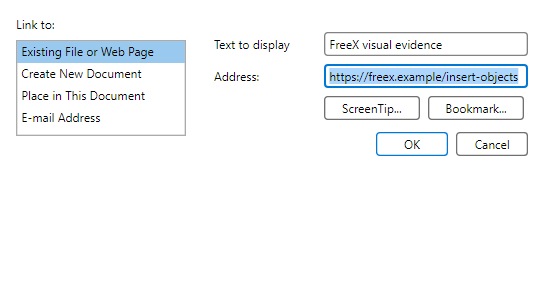
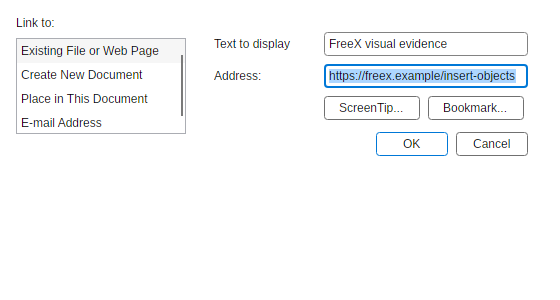
FreeX: refresh InsertHyperlink parity evidence

diff --git a/src/FreeX.App.Avalonia/MainWindow.cs b/src/FreeX.App.Avalonia/MainWindow.cs
@@ -16220,29 +16220,29 @@ public sealed partial class MainWindow : Window, IFormulaPointModeWorkbookWindow
             Width = HyperlinkDialogPlanner.LinkTypeColumnWidth,
             Height = HyperlinkDialogPlanner.LinkTypeListHeight,
         };
+        AvaloniaCompactDialogChrome.ApplyListBox(
+            linkTypeBox,
+            AvaloniaCompactDialogChrome.WindowsStyle with
+            {
+                ListBoxItemPadding = new Thickness(4, 0),
+            });
         // WPF keeps the selected link type in its inactive selection state because the
-        // address editor receives initial focus.  Avalonia Fluent otherwise paints the
-        // selected row with the active blue accent, so keep this host-template correction
-        // local to the hyperlink dialog instead of changing list selection globally.
+        // address editor receives initial focus.  Keep this correction local to the
+        // hyperlink dialog while covering the template's focused and hover states.
         var inactiveLinkTypeSelection = Brush(246, 246, 246);
-        var linkTypeSelectionStyle = new Style(x => x.OfType<ListBoxItem>().Class(":selected"))
+        foreach (var selector in new[] { ":selected", ":selected:focus", ":selected:pointerover", ":selected:focus:pointerover" })
         {
-            Setters =
+            linkTypeBox.Styles.Add(new Style(x => x.OfType<ListBoxItem>().Class(selector))
             {
-                new Setter(TemplatedControl.BackgroundProperty, inactiveLinkTypeSelection),
-                new Setter(TemplatedControl.ForegroundProperty, HeaderForeground),
-            },
-        };
-        var linkTypePointerSelectionStyle = new Style(x => x.OfType<ListBoxItem>().Class(":selected").Class(":pointerover"))
-        {
-            Setters =
-            {
-                new Setter(TemplatedControl.BackgroundProperty, inactiveLinkTypeSelection),
-                new Setter(TemplatedControl.ForegroundProperty, HeaderForeground),
-            },
-        };
-        linkTypeBox.Styles.Add(linkTypeSelectionStyle);
-        linkTypeBox.Styles.Add(linkTypePointerSelectionStyle);
+                Setters =
+                {
+                    new Setter(TemplatedControl.BackgroundProperty, inactiveLinkTypeSelection),
+                    new Setter(TemplatedControl.ForegroundProperty, HeaderForeground),
+                    new Setter(TemplatedControl.BorderBrushProperty, Brushes.Transparent),
+                    new Setter(TemplatedControl.BorderThicknessProperty, new Thickness(0)),
+                },
+            });
+        }
         AutomationProperties.SetName(linkTypeBox, UiText.Get("Hyperlink_LinkTo2"));
         AutomationProperties.SetAutomationId(linkTypeBox, "HyperlinkLinkTypeBox");
 

diff --git a/tests/FreeX.App.Avalonia.Tests/DialogVisualParitySourceTests.cs b/tests/FreeX.App.Avalonia.Tests/DialogVisualParitySourceTests.cs
@@ -157,13 +157,24 @@ public sealed class DialogVisualParitySourceTests
     {
         var source = File.ReadAllText(RepoFile("src", "FreeX.App.Avalonia", "MainWindow.cs"));
 
+        source.Should().Contain("AvaloniaCompactDialogChrome.ApplyListBox(");
+        source.Should().Contain("ListBoxItemPadding = new Thickness(4, 0)");
         source.Should().Contain("var inactiveLinkTypeSelection = Brush(246, 246, 246);");
-        source.Should().Contain("new Style(x => x.OfType<ListBoxItem>().Class(\":selected\"))");
-        source.Should().Contain("new Style(x => x.OfType<ListBoxItem>().Class(\":selected\").Class(\":pointerover\"))");
-        source.Should().Contain("linkTypeBox.Styles.Add(linkTypeSelectionStyle);");
-        source.Should().Contain("linkTypeBox.Styles.Add(linkTypePointerSelectionStyle);");
+        source.Should().Contain("new[] { \":selected\", \":selected:focus\", \":selected:pointerover\", \":selected:focus:pointerover\" }");
+        source.Should().Contain("new Setter(TemplatedControl.BorderBrushProperty, Brushes.Transparent)");
         source.Should().Contain("targetBox.Focus();");
         source.Should().Contain("targetBox.SelectAll();");
+    }
+
+    [Fact]
+    public void InsertHyperlinkParityCapture_UsesFixtureWithoutChangingProductionPrefill()
+    {
+        var source = File.ReadAllText(RepoFile("src", "FreeX.App.Avalonia", "MainWindow.cs"));
+        var captureSource = File.ReadAllText(RepoFile("src", "FreeX.App.Avalonia", "MainWindow.ParityCapture.cs"));
+
+        source.Should().Contain("var prefill = _session.GetSelectedRangeHyperlinkDialogPrefill();");
+        captureSource.Should().Contain("HyperlinkDialogParityFixture.Seed(_session.ActiveSheet, address);");
+        captureSource.Should().Contain("await ShowInsertHyperlinkInputDialogAsync();");
     }
 
     [Fact]

diff --git a/docs/parity/dialog-visual-evidence-summary.md b/docs/parity/dialog-visual-evidence-summary.md
@@ -64,7 +64,7 @@ Outliers are ranked by a deterministic triage score: normalized 32x32 ARGB sampl
 | --- | ---: | ---: | --- | --- | --- | ---: | ---: | ---: | ---: |
 | dialog.DataTable | 360x210 | 360x210 | 540x315 px @ 144 DPI vs 360x210 px @ 96 DPI |  |  | 0.101 | 0.043 | 0.006 | 0.051 |
 | dialog.ChangeChartType | 640x390 | 640x390 | 960x585 px @ 144 DPI vs 640x390 px @ 96 DPI |  |  | 0.077 | 0.046 | 0.005 | 0.027 |
-| dialog.InsertHyperlink | 560x300 | 560x300 | 840x450 px @ 144 DPI vs 560x300 px @ 96 DPI |  |  | 0.069 | 0.037 | 0.002 | 0.030 |
+| dialog.InsertHyperlink | 560x300 | 560x300 | 840x450 px @ 144 DPI vs 560x300 px @ 96 DPI |  |  | 0.075 | 0.034 | 0.007 | 0.034 |
 | dialog.AccessibilityChecker | 360x520 | 360x520 | 360x520 px @ 96 DPI vs 360x520 px @ 96 DPI |  |  | 0.067 | 0.044 | 0.001 | 0.021 |
 | dialog.GoTo | 420x320 | 420x320 | 420x320 px @ 96 DPI vs 420x320 px @ 96 DPI |  |  | 0.066 | 0.027 | 0.011 | 0.028 |
 | dialog.PageSetup.Sheet | 600x560 | 600x560 | 600x560 px @ 96 DPI vs 600x560 px @ 96 DPI |  |  | 0.066 | 0.038 | 0.004 | 0.023 |
@@ -123,7 +123,7 @@ These rows have a DPI-normalized checked-in PNG size that disagrees with the dia
 | dialog.GoTo | dialog.GoTo.png | 420x320 | 420x320 px @ 96 DPI | True | dialog.GoTo.png | 420x320 | 420x320 px @ 96 DPI | True | True | 0.066 |
 | dialog.GoToSpecial | dialog.GoToSpecial.png | 430x438 | 430x438 px @ 96 DPI | True | dialog.GoToSpecial.png | 430x438 | 430x438 px @ 96 DPI | True | True | 0.034 |
 | dialog.HeaderFooterDialog | dialog.HeaderFooterDialog.png | 760x600 | 760x600 px @ 96 DPI | True | dialog.HeaderFooterDialog.png | 760x600 | 760x600 px @ 96 DPI | True | True | 0.034 |
-| dialog.InsertHyperlink | dialog.InsertHyperlink.png | 560x300 | 840x450 px @ 144 DPI | True | dialog.InsertHyperlink.png | 560x300 | 560x300 px @ 96 DPI | True | True | 0.069 |
+| dialog.InsertHyperlink | dialog.InsertHyperlink.png | 560x300 | 840x450 px @ 144 DPI | True | dialog.InsertHyperlink.png | 560x300 | 560x300 px @ 96 DPI | True | True | 0.075 |
 | dialog.InsertSlicer | dialog.InsertSlicer.png | 410x270 | 615x405 px @ 144 DPI | True | dialog.InsertSlicer.png | 410x270 | 410x270 px @ 96 DPI | True | True | 0.046 |
 | dialog.InsertTimeline | dialog.InsertTimeline.png | 410x270 | 615x405 px @ 144 DPI | True | dialog.InsertTimeline.png | 410x270 | 410x270 px @ 96 DPI | True | True | 0.040 |
 | dialog.LegalNotices | dialog.LegalNotices.png | 840x620 | 1260x930 px @ 144 DPI | True | dialog.LegalNotices.png | 840x620 | 840x620 px @ 96 DPI | True | True | 0.030 |

diff --git a/docs/parity/avalonia-parity-wave145-freex-insert-hyperlink-20260804.md b/docs/parity/avalonia-parity-wave145-freex-insert-hyperlink-20260804.md
@@ -1,0 +1,31 @@
+# Avalonia Parity Wave 145: FreeX Insert Hyperlink
+
+## Scope
+
+Reduced the valid paired `dialog.InsertHyperlink` residual in the Avalonia
+hyperlink type list. The retained WPF authority shows an inactive light-gray
+selected row while the Address editor owns initial focus, with four link types
+fitting the fixed 96px list without scrolling.
+
+## Change and evidence
+
+- Routed only the hyperlink type list through the shared Windows-style list
+  template, with zero vertical item padding so four 24px rows fit the planner's
+  96px list height.
+- Kept the local inactive selection override across selected, focused, and
+  pointer-over states; production prefill, focus, validation, and result paths
+  are unchanged.
+- Refreshed only the Avalonia `dialog.InsertHyperlink` PNG from current source
+  under Linux Docker/Xvfb: exact `560x300`, nonblank, `app_exit=0`,
+  `capture_validated=true`. The retained WPF PNG was not regenerated or altered.
+- Against the valid refreshed current-source baseline, the paired triage score
+  improved from `0.076517` to `0.074729` (`0.001788`, about 2.34% relative).
+  No threshold was changed and no WPF evidence was fabricated.
+
+## Verification
+
+- `InsertHyperlinkDialog_UsesInactiveWpfSelectionForFocusedAddressEditor`: 1
+  passed.
+- `InsertHyperlinkParityCapture_UsesFixtureWithoutChangingProductionPrefill`: 1
+  passed.
+- Targeted Avalonia capture: passed with the exact planner dimensions.
